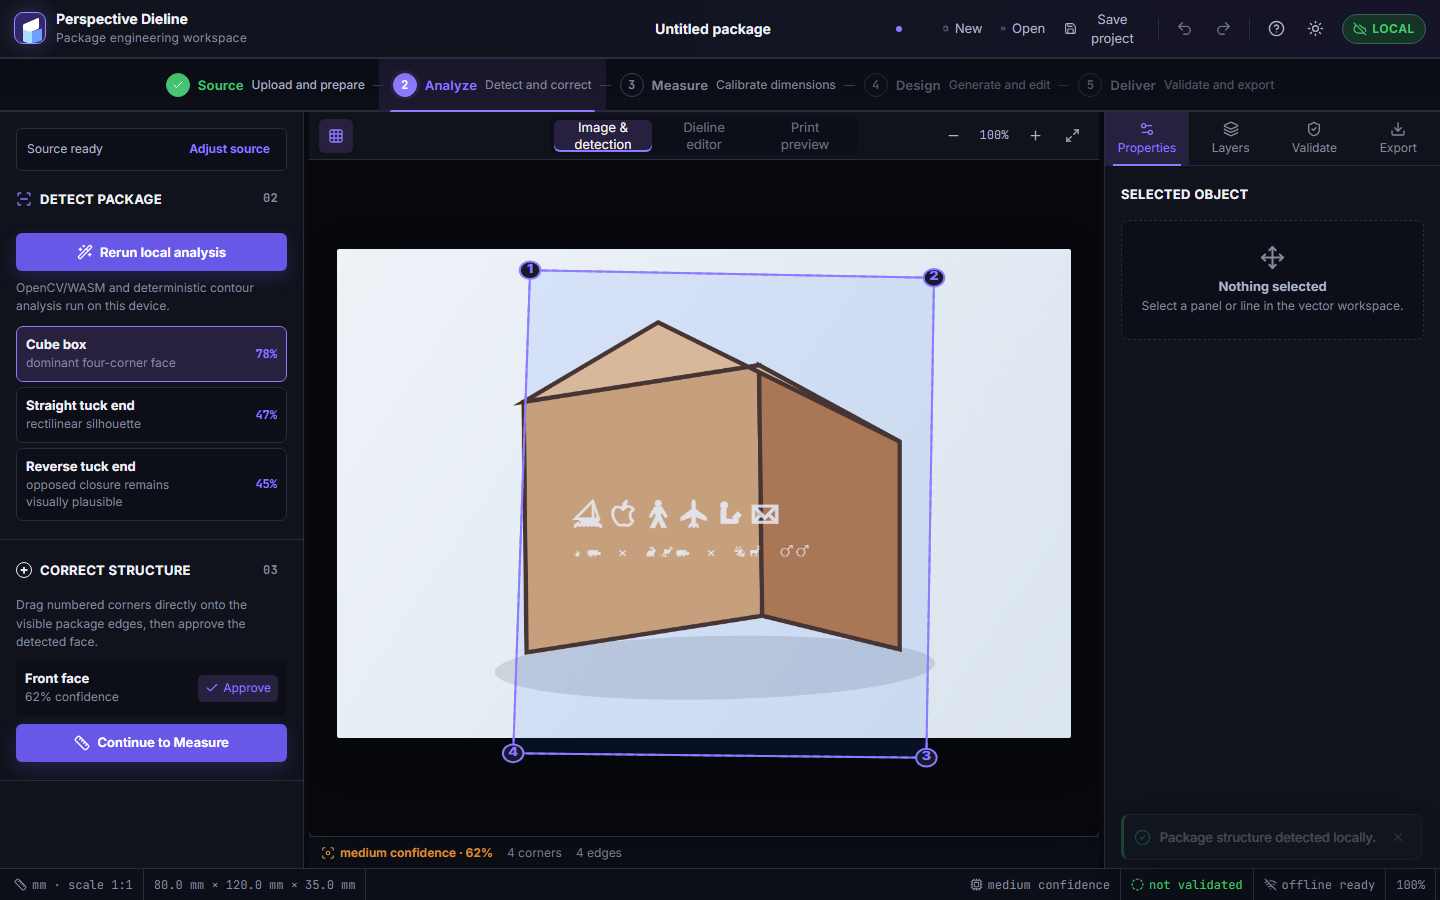
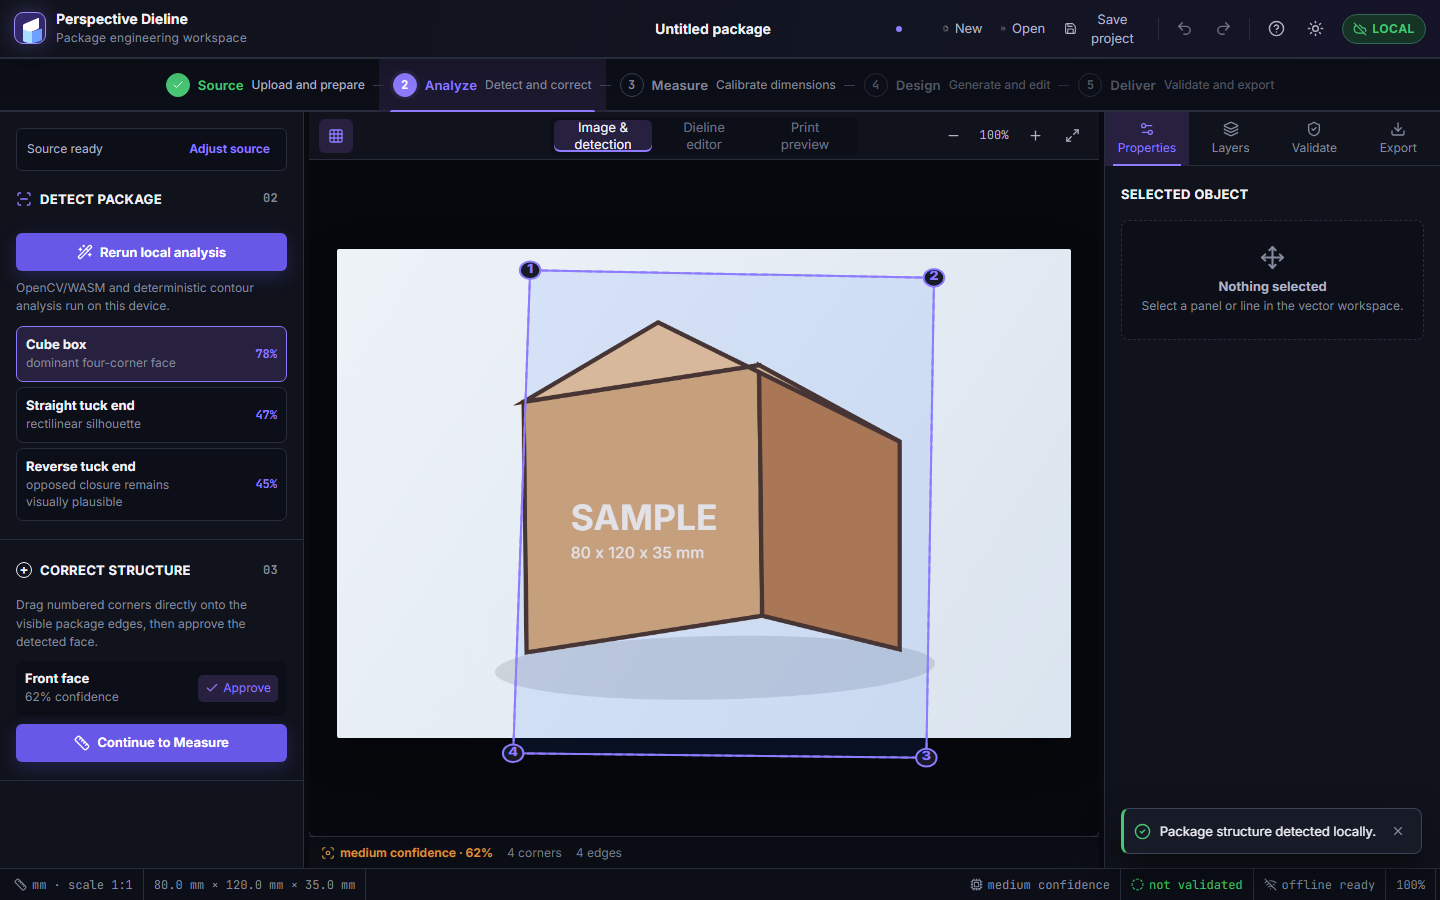
fix: use stable font in sample image

Changed region(s): [[0.375, 0.56, 0.5625, 0.6222], [0.7812, 0.9022, 0.9688, 0.9333]]

diff --git a/src/lib/sample-image.ts b/src/lib/sample-image.ts
@@ -49,10 +49,10 @@ export const createSamplePackageImage = () => {
   context.stroke();
 
   context.fillStyle = "rgba(255,255,255,0.82)";
-  context.font = "700 58px Inter, Arial, sans-serif";
+  context.font = '700 58px "Inter Variable", "Segoe UI", Arial, sans-serif';
   context.fillText("SAMPLE", 382, 460);
-  context.font = "500 26px Inter, Arial, sans-serif";
-  context.fillText("80 × 120 × 35 mm", 382, 506);
+  context.font = '500 26px "Inter Variable", "Segoe UI", Arial, sans-serif';
+  context.fillText("80 x 120 x 35 mm", 382, 506);
   return canvas.toDataURL("image/png");
 };
 
